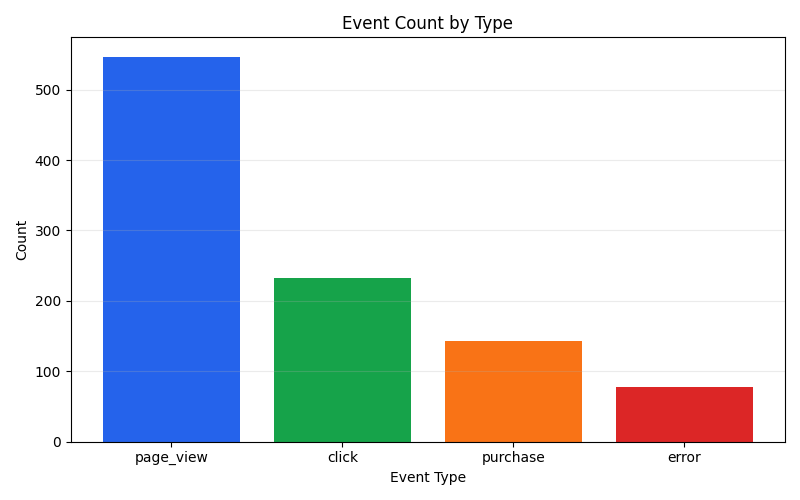
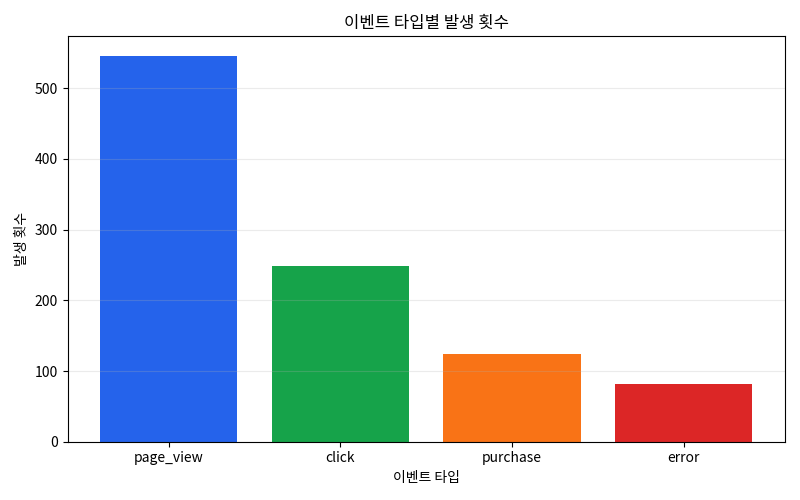
Localize chart labels

diff --git a/app/visualize_events.py b/app/visualize_events.py
@@ -6,8 +6,42 @@ import matplotlib
 matplotlib.use("Agg")
 
 import matplotlib.pyplot as plt
+from matplotlib import font_manager
 
 from analyze_events import ANALYSIS_QUERIES, fetch_query_result
+
+
+def configure_korean_font() -> None:
+    """차트의 한국어 제목과 축 라벨이 깨지지 않도록 한글 폰트를 설정합니다."""
+
+    font_candidates = [
+        "Noto Sans CJK KR",
+        "Noto Sans CJK JP",
+        "NanumGothic",
+        "AppleGothic",
+        "Malgun Gothic",
+    ]
+    available_fonts = {font.name for font in font_manager.fontManager.ttflist}
+
+    for font_name in font_candidates:
+        if font_name in available_fonts:
+            plt.rcParams["font.family"] = font_name
+            break
+
+    plt.rcParams["axes.unicode_minus"] = False
+
+
+def format_hour_label(value) -> str:
+    """시간대 라벨을 월-일-시 형식으로 줄여 표시합니다."""
+
+    if hasattr(value, "strftime"):
+        return value.strftime("%m-%d %H시")
+
+    value_text = str(value)
+    try:
+        return value_text[5:10] + " " + value_text[11:13] + "시"
+    except IndexError:
+        return value_text
 
 
 def save_event_type_chart(conn, output_dir: Path) -> Path:
@@ -22,9 +56,9 @@ def save_event_type_chart(conn, output_dir: Path) -> Path:
 
     fig, ax = plt.subplots(figsize=(8, 5))
     ax.bar(event_types, event_counts, color=["#2563eb", "#16a34a", "#f97316", "#dc2626"])
-    ax.set_title("Event Count by Type")
-    ax.set_xlabel("Event Type")
-    ax.set_ylabel("Count")
+    ax.set_title("이벤트 타입별 발생 횟수")
+    ax.set_xlabel("이벤트 타입")
+    ax.set_ylabel("발생 횟수")
     ax.grid(axis="y", alpha=0.25)
 
     output_path = output_dir / "event_type_counts.png"
@@ -41,14 +75,14 @@ def save_hourly_trend_chart(conn, output_dir: Path) -> Path:
     hour_index = columns.index("event_hour")
     count_index = columns.index("event_count")
 
-    event_hours = [row[hour_index] for row in rows]
+    event_hours = [format_hour_label(row[hour_index]) for row in rows]
     event_counts = [row[count_index] for row in rows]
 
     fig, ax = plt.subplots(figsize=(12, 5))
     ax.plot(event_hours, event_counts, marker="o", color="#0891b2")
-    ax.set_title("Hourly Event Trend")
-    ax.set_xlabel("Hour")
-    ax.set_ylabel("Count")
+    ax.set_title("시간대별 이벤트 추이")
+    ax.set_xlabel("시간")
+    ax.set_ylabel("발생 횟수")
     ax.grid(alpha=0.25)
     ax.tick_params(axis="x", rotation=60)
 
@@ -64,6 +98,7 @@ def save_charts(output_dir: Path) -> list[Path]:
 
     from db import connect_with_retry
 
+    configure_korean_font()
     output_dir.mkdir(parents=True, exist_ok=True)
 
     with connect_with_retry() as conn:

diff --git a/README.md b/README.md
@@ -131,7 +131,7 @@ MySQL은 Compose 내부 네트워크에서만 사용하므로 호스트의 3306 
 | 파일 | 내용 |
 | --- | --- |
 | `output/charts/event_type_counts.png` | 이벤트 타입별 발생 횟수 막대그래프 |
-| `output/charts/hourly_trend.png` | 시간대별 이벤트 추이 라인그래프 |
+| `output/charts/hourly_trend.png` | `월-일 시` 형식으로 표시한 시간대별 이벤트 추이 라인그래프 |
 
 Docker Compose 실행 후 생성된 이미지를 README에서 함께 확인할 수 있습니다.
 
